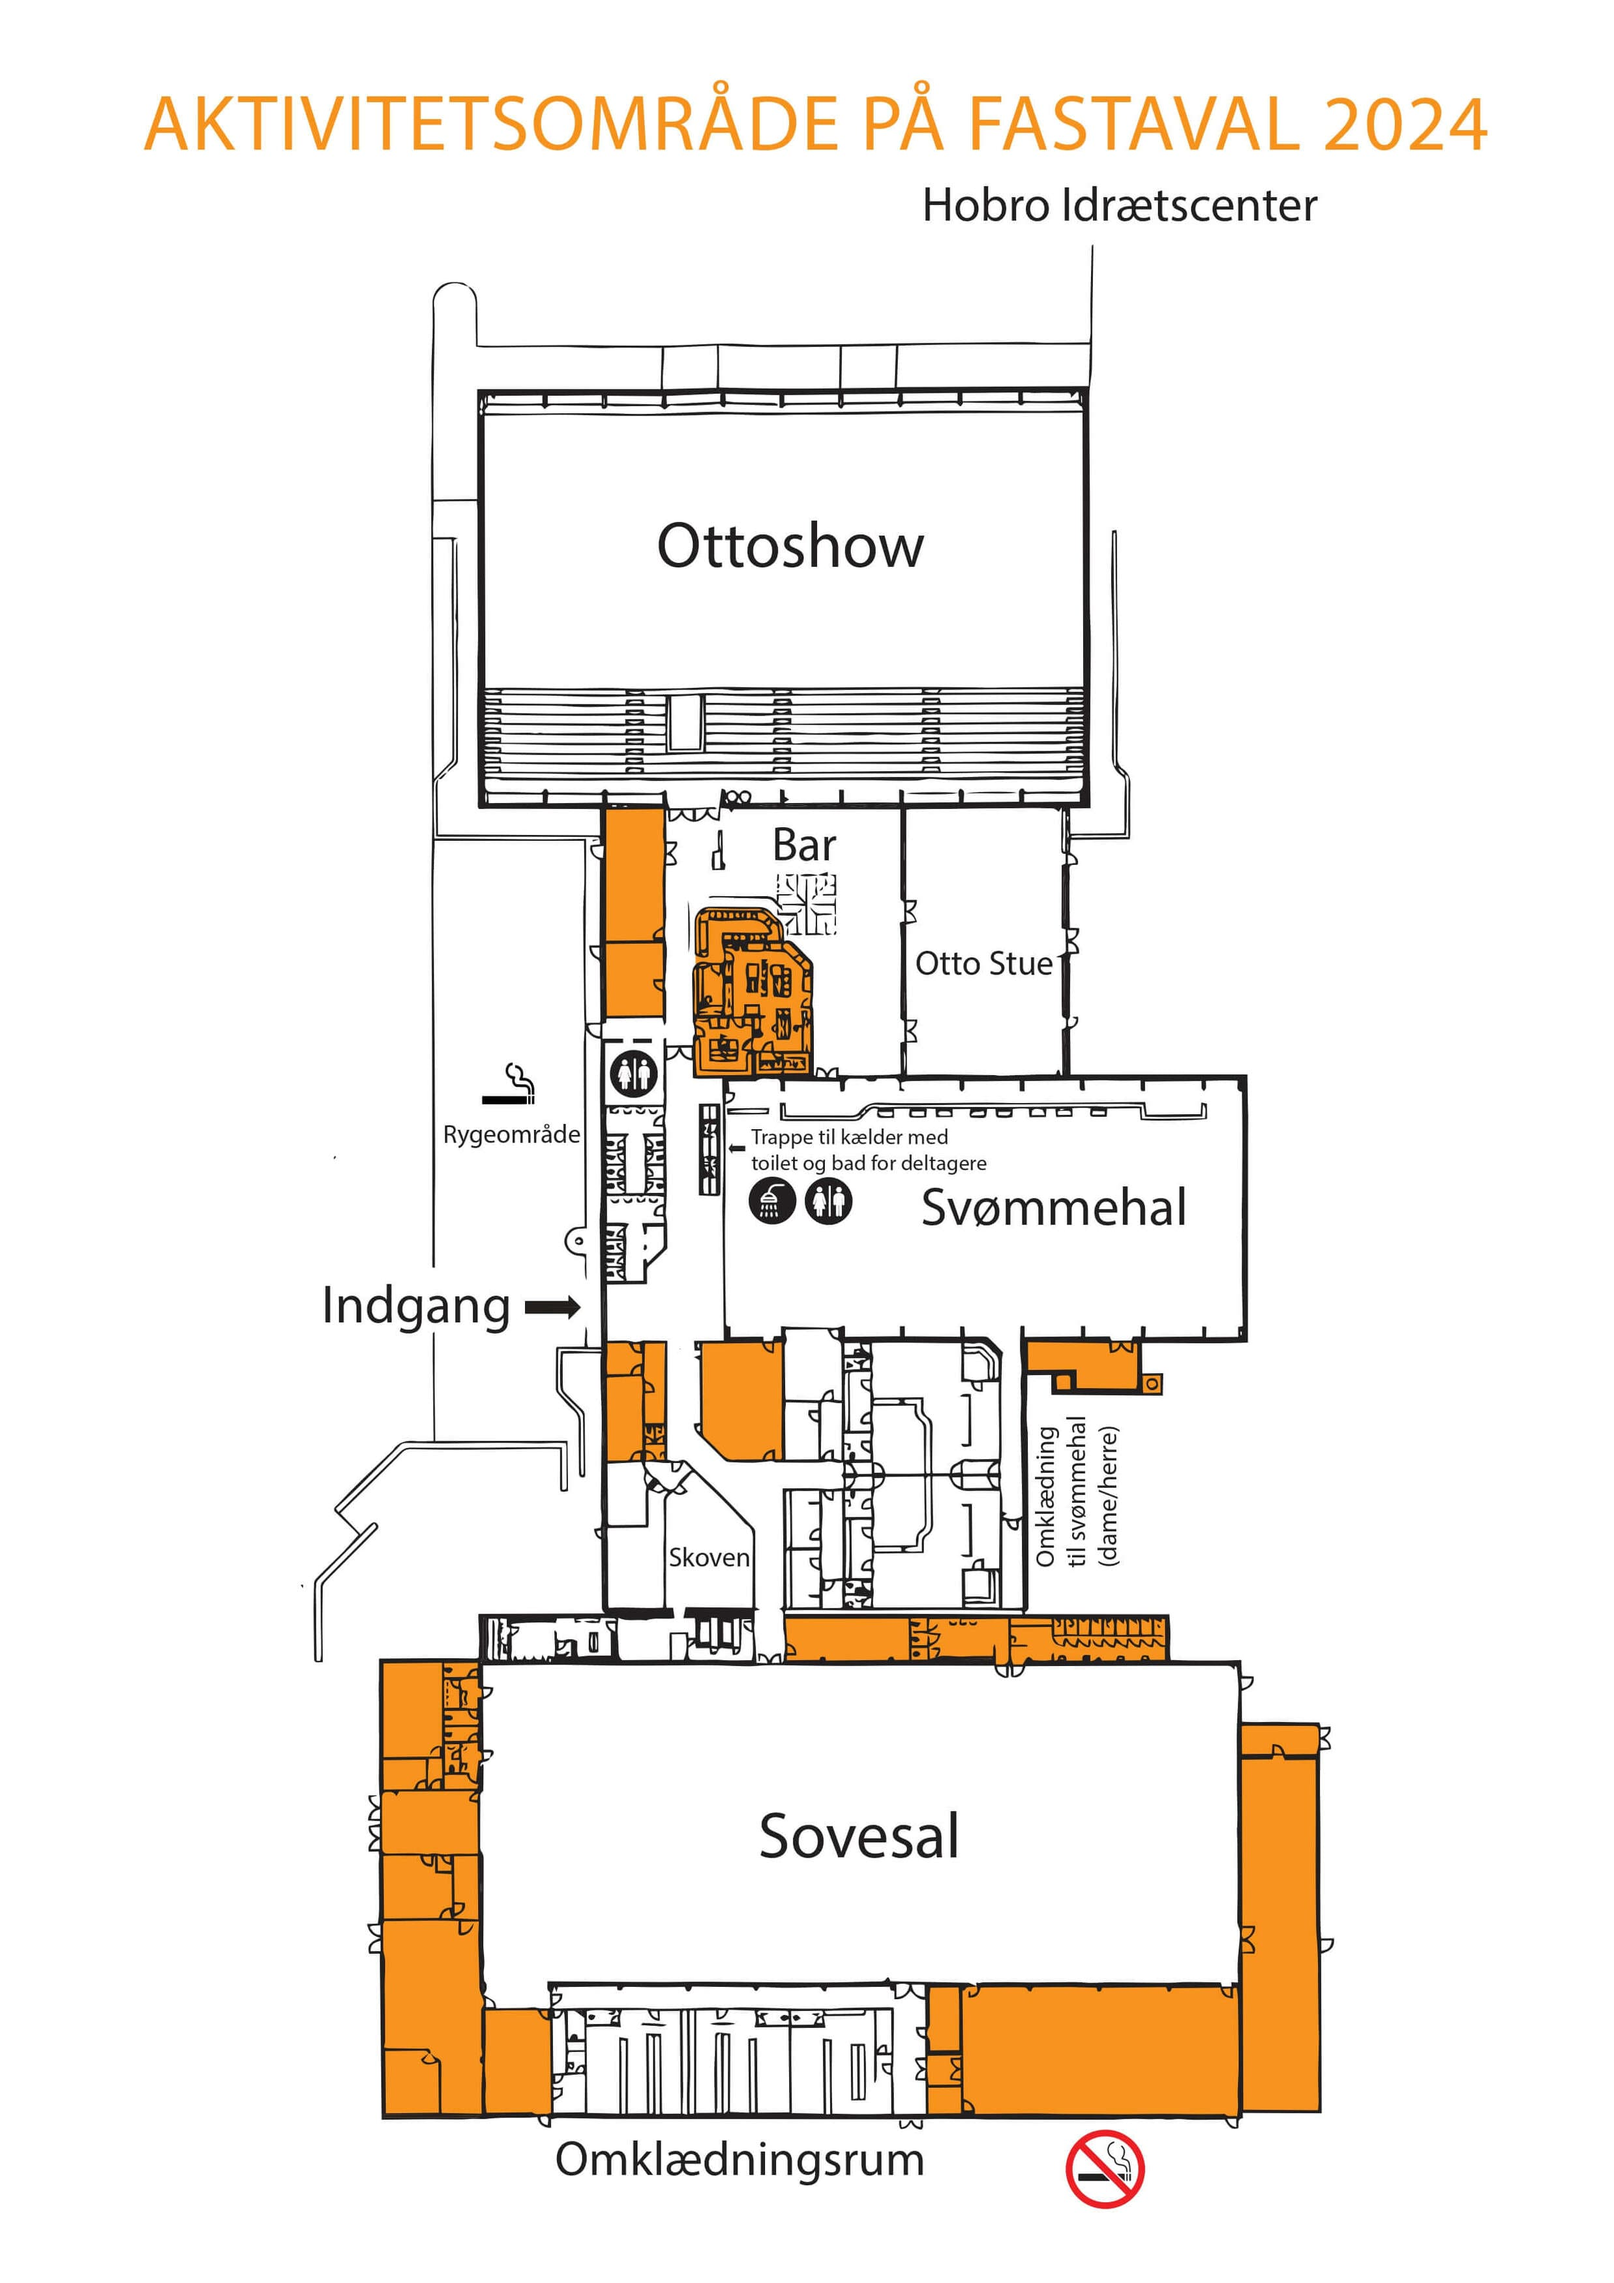
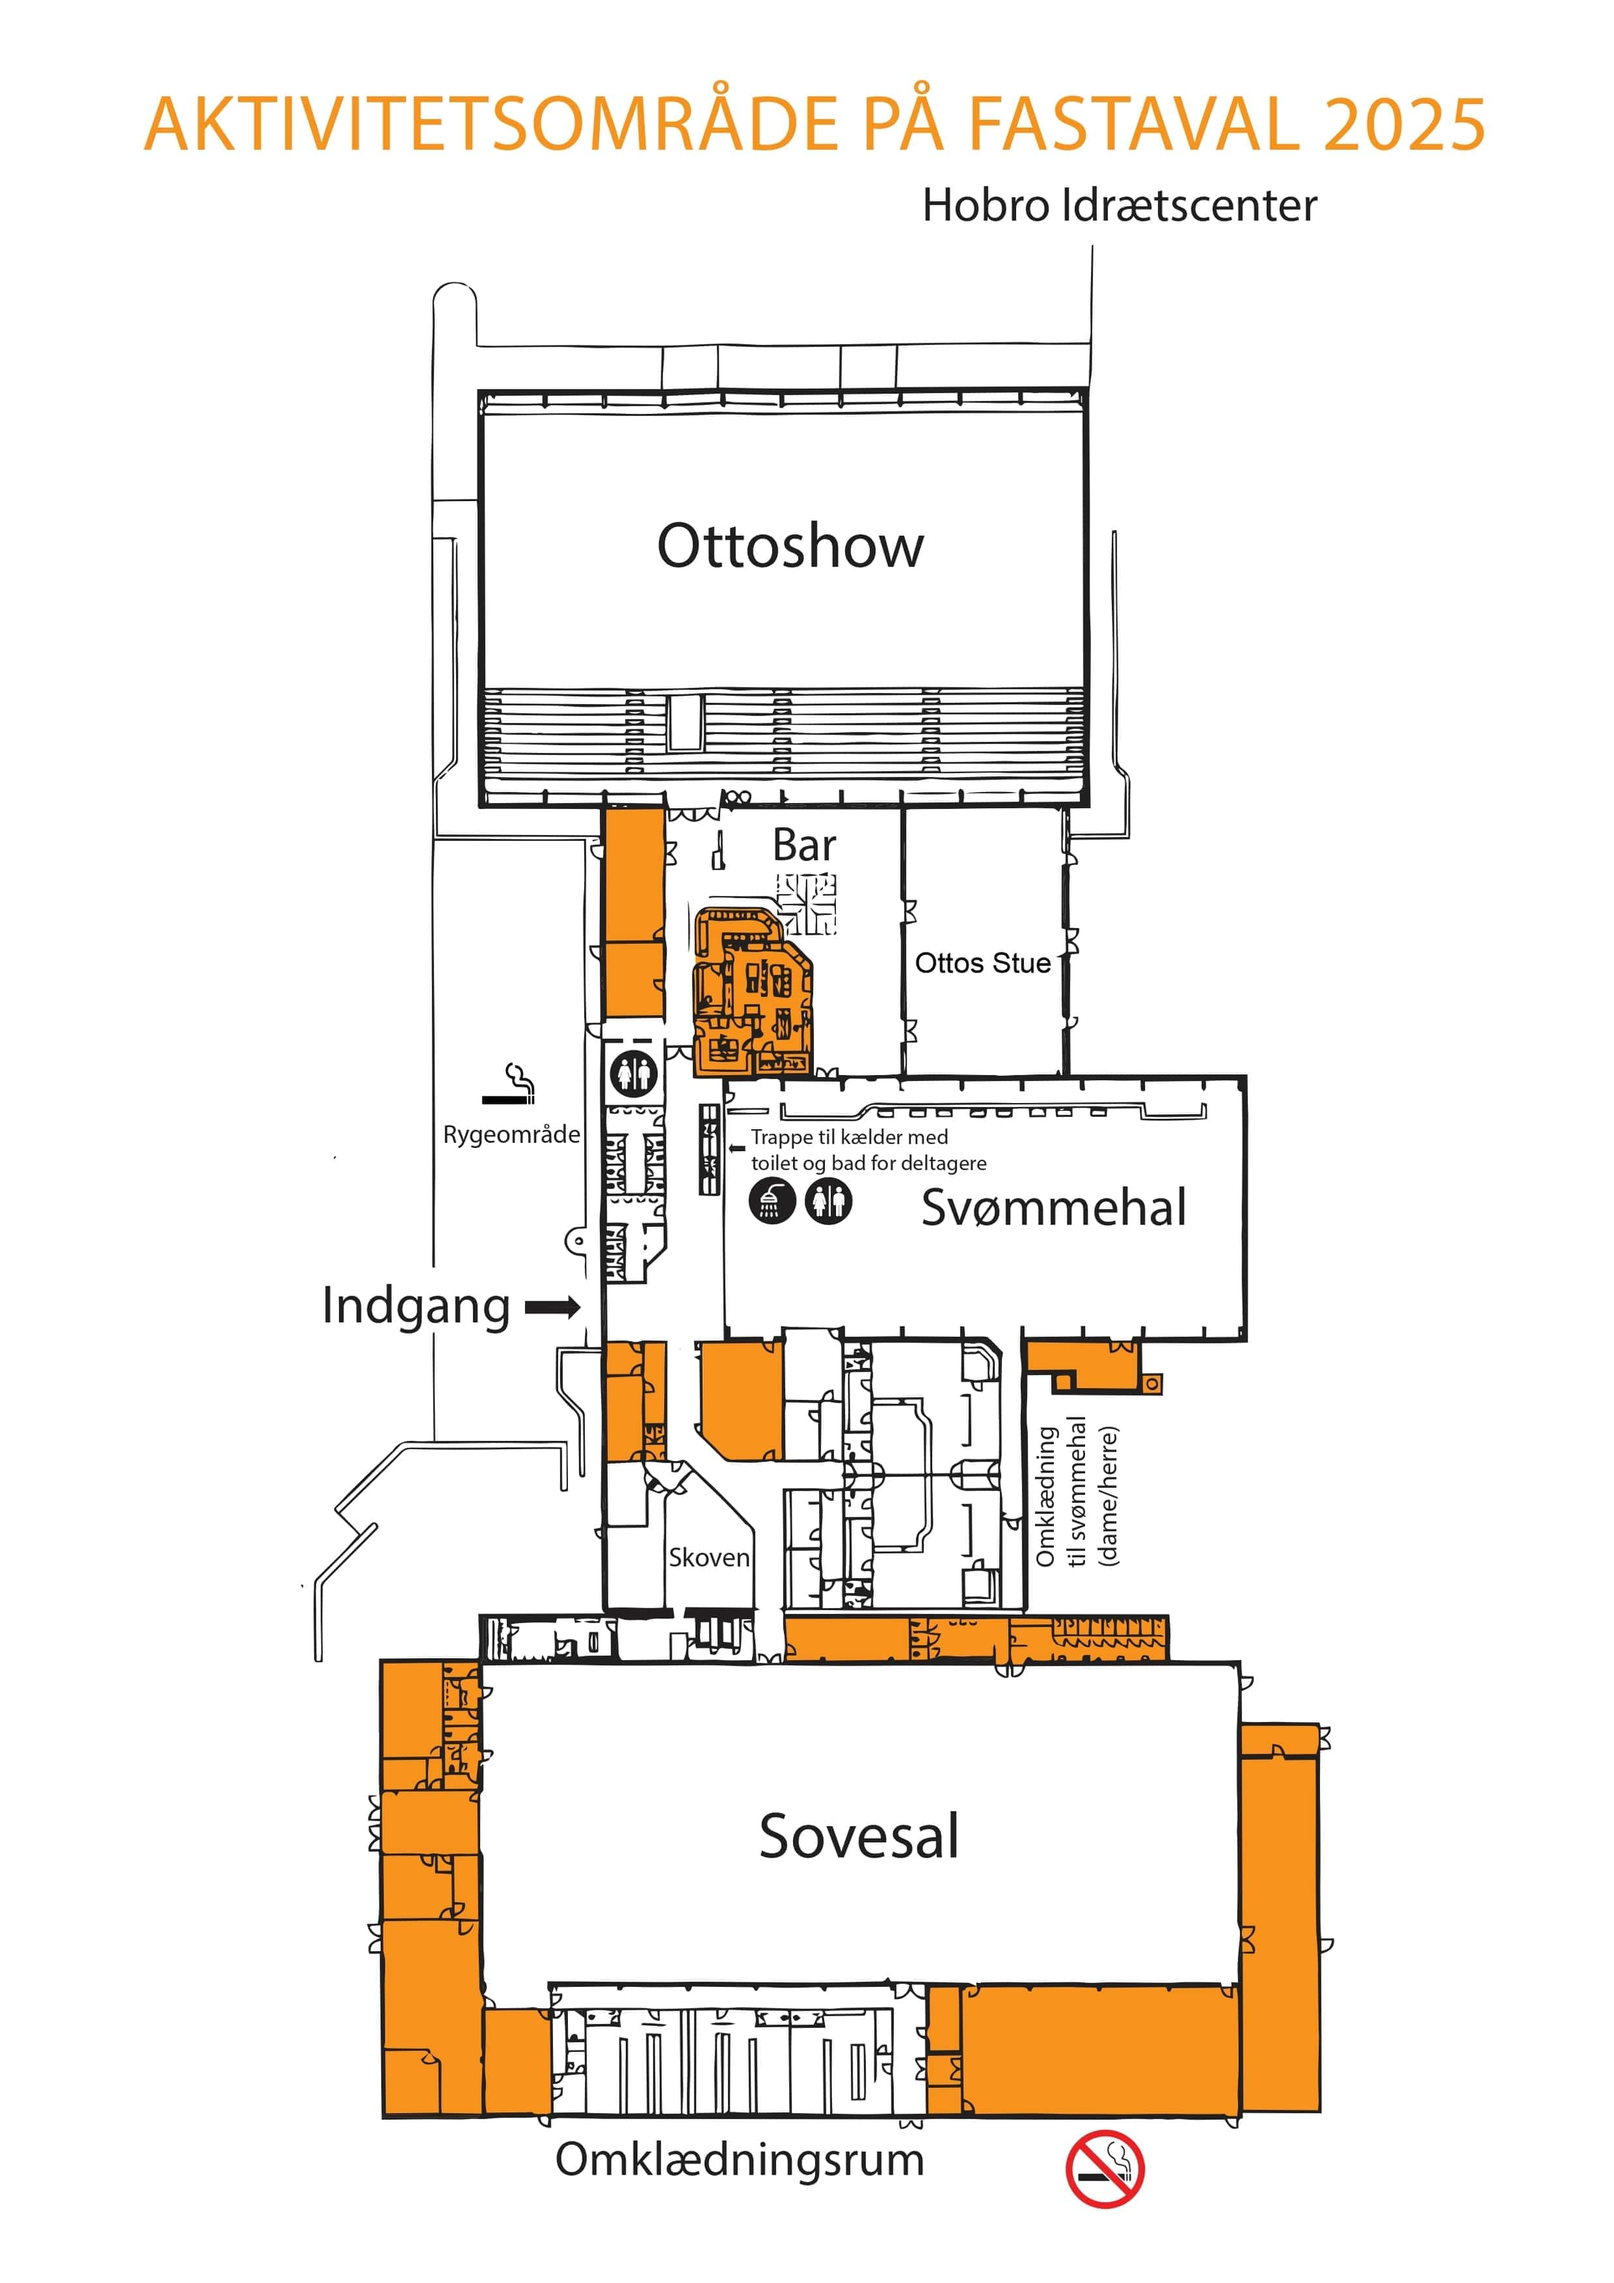
1.2.9 (#114)
* New fastaval maps

* Update version to 1.2.9+31

* Update project.pbxproj

* Set user as empty on startup

Changed region(s): [[0.56, 0.4049, 0.6533, 0.436], [0.9022, 0.0311, 0.9333, 0.0623]]

diff --git a/lib/controllers/boardgame.controller.dart b/lib/controllers/boardgame.controller.dart
@@ -1,5 +1,6 @@
 import 'dart:convert';
 
+import 'package:easy_localization/easy_localization.dart';
 import 'package:fastaval_app/controllers/app.controller.dart';
 import 'package:fastaval_app/models/activity.model.dart';
 import 'package:fastaval_app/models/boardgame.model.dart';
@@ -91,11 +92,12 @@ class BoardGameController extends GetxController {
 
     try {
       var response = await request.send();
-      if (response.statusCode == 200 || response.statusCode == 500) {
-        Fluttertoast.showToast(
-            msg: 'Board game rankings submitted successfully!');
+      if (chosenBoardgames.isEmpty && response.statusCode == 500) {
+        Fluttertoast.showToast(msg: tr("boardgames.vote.reset"));
+      } else if (response.statusCode == 200) {
+        Fluttertoast.showToast(msg: tr("boardgames.vote.successful"));
       } else {
-        Fluttertoast.showToast(msg: 'Failed to submit board game rankings.');
+        Fluttertoast.showToast(msg: tr('boardgames.vote.failed'));
       }
     } catch (e) {
       Fluttertoast.showToast(msg: 'An error occurred: $e');
@@ -135,8 +137,7 @@ class BoardGameController extends GetxController {
           }
         }
       } else {
-        Fluttertoast.showToast(
-            msg: 'Failed to fetch initial board game rankings.');
+        Fluttertoast.showToast(msg: tr("boardgames.vote.failedFetch"));
       }
     } catch (e) {
       Fluttertoast.showToast(

diff --git a/lib/controllers/app.controller.dart b/lib/controllers/app.controller.dart
@@ -12,9 +12,9 @@ class AppController extends GetxController {
   final fetchingUser = false.obs;
   final loggedIn = false.obs;
   final navIndex = 1.obs;
-  late User user;
   final userUpdateTime = 0.obs;
   final Rx<PackageInfo?> packageInfo = Rx<PackageInfo?>(null);
+  User user = User();
 
   updateLoggedIn(bool status) {
     loggedIn(status);
@@ -48,6 +48,8 @@ class AppController extends GetxController {
   }
 
   updateUserProfile() async {
+    if (user.id == 0) return;
+
     fetchingUser(true);
     User newUser = await fetchUser(user.id.toString(), user.password);
     newUser.password = user.password;
@@ -58,7 +60,6 @@ class AppController extends GetxController {
   }
 
   Future<void> login(String id, String password) async {
-    var boardCtrl = Get.find<BoardGameController>();
     try {
       User newUser = await fetchUser(id, password);
       newUser.password = password;
@@ -67,7 +68,7 @@ class AppController extends GetxController {
       await UserService().setUser(newUser);
       await UserService().registerToInfosys(newUser);
       updateNavIndex(0);
-      boardCtrl.fetchAndSetInitialRankings();
+      Get.find<BoardGameController>().fetchAndSetInitialRankings();
     } catch (error) {
       Fluttertoast.showToast(msg: tr('error.login'));
     }

diff --git a/lib/screens/profile.screen.dart b/lib/screens/profile.screen.dart
@@ -423,18 +423,18 @@ class ProfileScreen extends StatelessWidget {
         CupertinoIcons.bed_double,
         Padding(
           padding: EdgeInsets.fromLTRB(16, 8, 24, 16),
-          child: appCtrl.user.sleep.access == 0
+          child: appCtrl.user.sleep?.access == 0
               ? Row(children: [oneTextRow(tr('profile.sleep.notSleeping'))])
               : Column(
                   children: [
                     twoTextRow(
                       tr('profile.sleep.location'),
-                      appCtrl.user.sleep.areaName,
+                      appCtrl.user.sleep?.areaName ?? '',
                     ),
                     SizedBox(height: 10),
                     twoTextRow(
                       tr('profile.sleep.mattressRented'),
-                      tr('profile.sleep.mattress.${appCtrl.user.sleep.mattress}'),
+                      tr('profile.sleep.mattress.${appCtrl.user.sleep?.mattress}'),
                     ),
                   ],
                 ),

diff --git a/lib/models/user.model.dart b/lib/models/user.model.dart
@@ -10,7 +10,7 @@ class User {
   String name;
   bool hasCheckedIn;
   String? messages;
-  Sleep sleep;
+  Sleep? sleep;
   String category;
   List<Food> food;
   List<Wear> wear;
@@ -19,18 +19,18 @@ class User {
   List<OttoParty> ottoParty;
 
   User({
-    required this.id,
-    required this.password,
-    required this.name,
-    required this.hasCheckedIn,
-    required this.messages,
-    required this.sleep,
-    required this.category,
-    required this.food,
-    required this.wear,
-    required this.scheduling,
-    required this.barcode,
-    required this.ottoParty,
+    this.id = 0,
+    this.password = '',
+    this.name = '',
+    this.hasCheckedIn = false,
+    this.messages,
+    this.sleep,
+    this.category = '',
+    this.food = const [],
+    this.wear = const [],
+    this.scheduling = const [],
+    this.barcode = 0,
+    this.ottoParty = const [],
   });
 
   User.fromJson(Map<String, dynamic> json)
